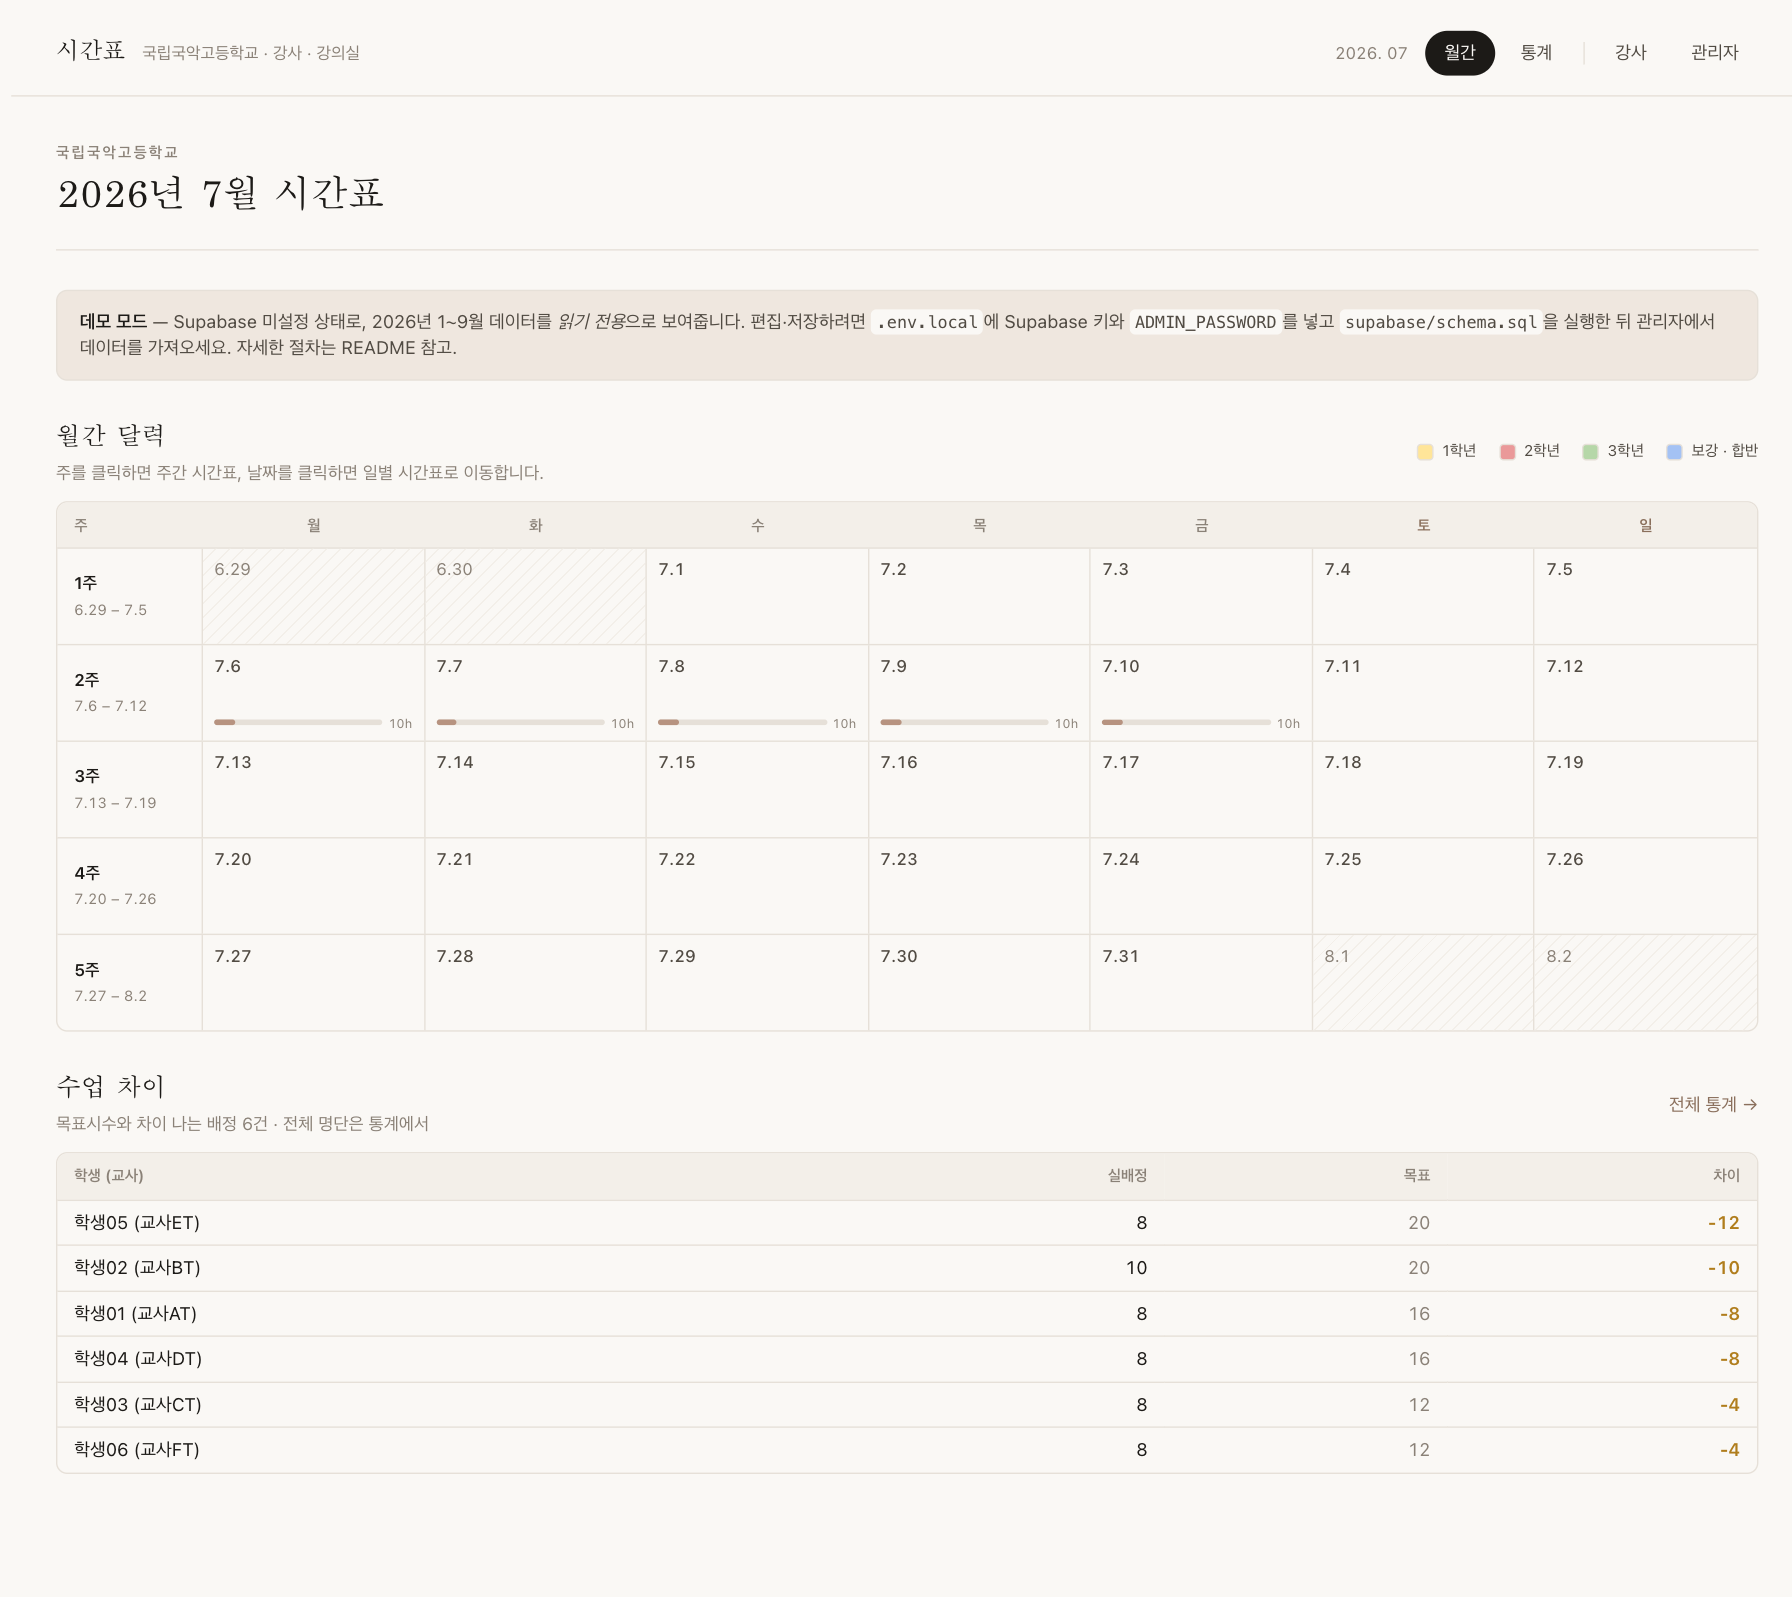
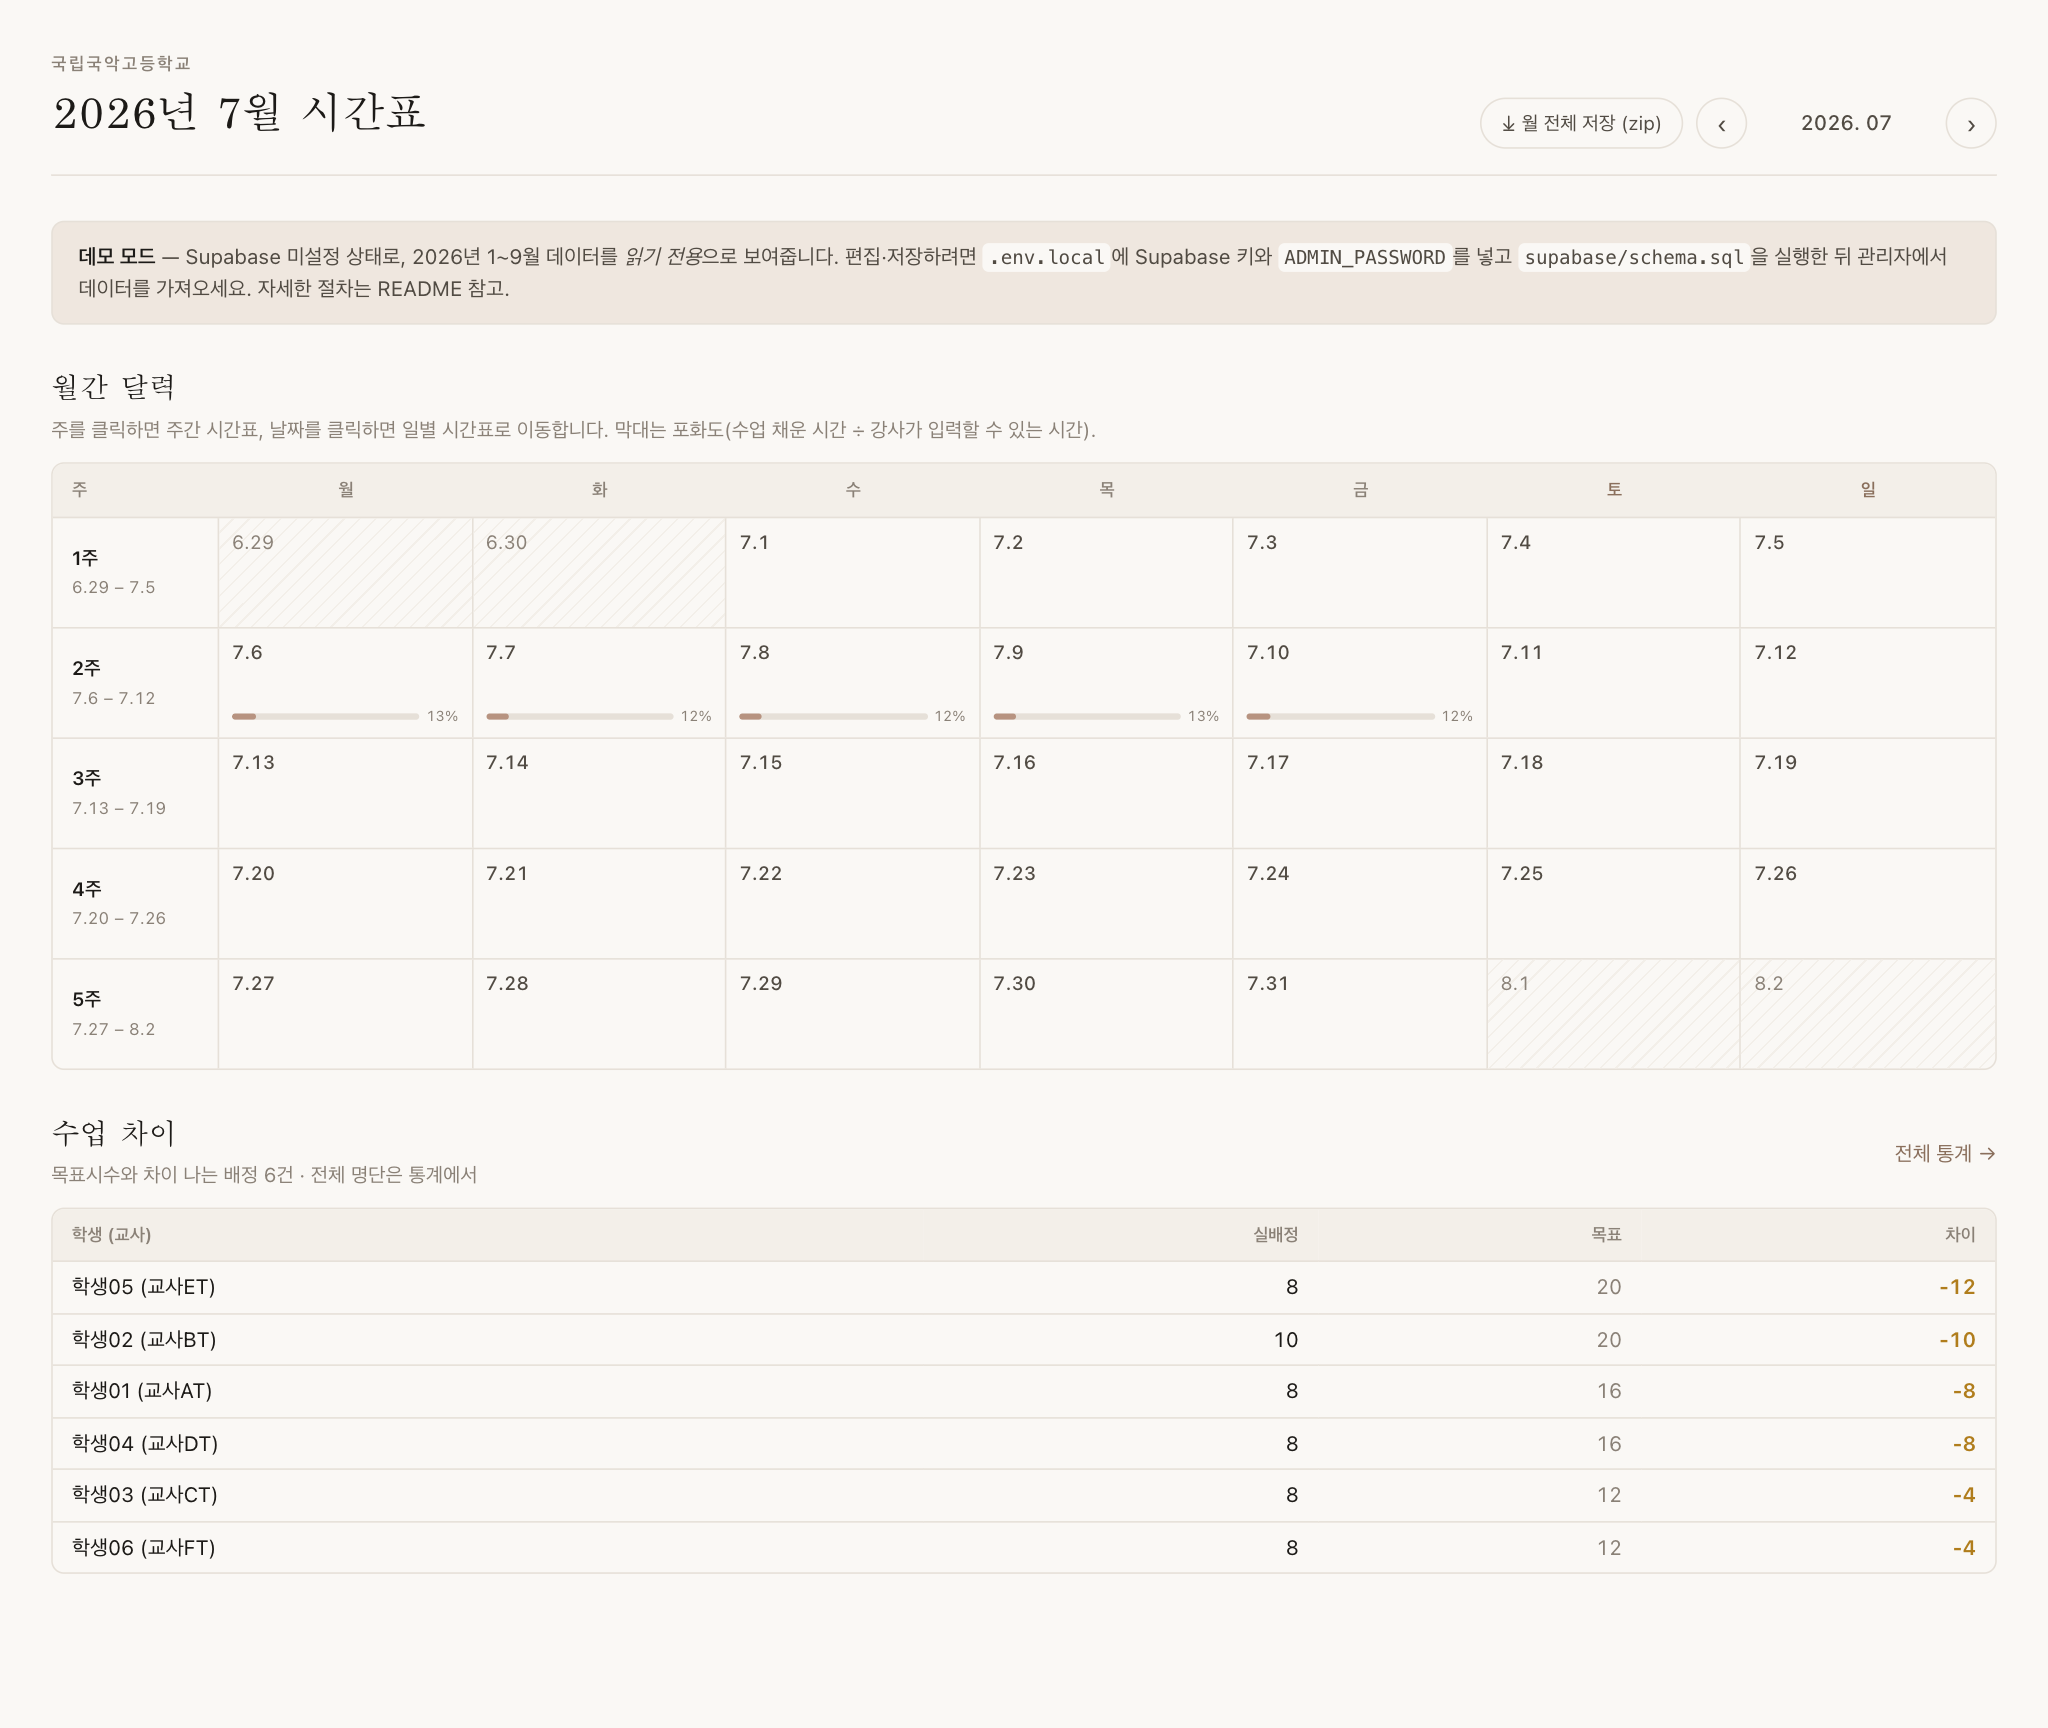
Month calendar: drop grade legend, show day bar as saturation %
- remove the 1·2·3학년 / 보강·합반 legend from the month view (the day
  bars are the only thing that needs explaining there)
- label each day bar with saturation % = pairing hours ÷ instructor-
  fillable hours (configured room/time range minus no-class blocks)
- refresh docs/home.png

diff --git a/src/components/MonthCalendar.tsx b/src/components/MonthCalendar.tsx
@@ -36,7 +36,8 @@ export function MonthCalendar({
   const cfg = indexDayConfigs(dayConfigs);
   const order = dowOrder(settings.week_start);
 
-  // 시간(hours) 기준: 수업(pairing) 시간 / (전체 강의시간 − 비수업 시간)
+  // 포화도: 수업(pairing) 채운 시간 ÷ 강사가 입력할 수 있는 시간
+  //         (관리자가 설정한 강의실·시간블록 범위 − 비수업 시간)
   const usedH = new Map<string, number>();
   const blockedH = new Map<string, number>();
   for (const c of cells) {
@@ -99,6 +100,7 @@ export function MonthCalendar({
                 0,
               );
               const capacity = perDayH * roomsForDate(d, settings, dc).length;
+              // 강사가 입력할 수 있는 시간 = 설정된 범위 − 비수업 시간
               const available = Math.max(0, capacity - (blockedH.get(iso(d)) ?? 0));
               const used = usedH.get(iso(d)) ?? 0;
               const pct = available > 0 ? used / available : 0;
@@ -136,7 +138,7 @@ export function MonthCalendar({
                         />
                       </span>
                       <span className="shrink-0 text-[9px] tabular-nums text-ink-3">
-                        {used}h
+                        {Math.round(pct * 100)}%
                       </span>
                     </span>
                   )}

diff --git a/src/app/page.tsx b/src/app/page.tsx
@@ -10,7 +10,7 @@ import {
 import { actualVsTarget } from "@/lib/stats";
 import { MonthCalendar } from "@/components/MonthCalendar";
 import { MonthCapture } from "@/components/MonthCapture";
-import { Legend, PageHeader, SectionTitle, StepNav } from "@/components/ui";
+import { PageHeader, SectionTitle, StepNav } from "@/components/ui";
 import { ConfigNotice } from "@/components/ConfigNotice";
 import { hasSupabase } from "@/lib/supabaseServer";
 
@@ -82,10 +82,7 @@ export default async function HomePage({
       {!hasSupabase() && <ConfigNotice />}
 
       <section>
-        <SectionTitle
-          sub="주를 클릭하면 주간 시간표, 날짜를 클릭하면 일별 시간표로 이동합니다."
-          right={<Legend />}
-        >
+        <SectionTitle sub="주를 클릭하면 주간 시간표, 날짜를 클릭하면 일별 시간표로 이동합니다. 막대는 포화도(수업 채운 시간 ÷ 강사가 입력할 수 있는 시간).">
           월간 달력
         </SectionTitle>
         <MonthCalendar
